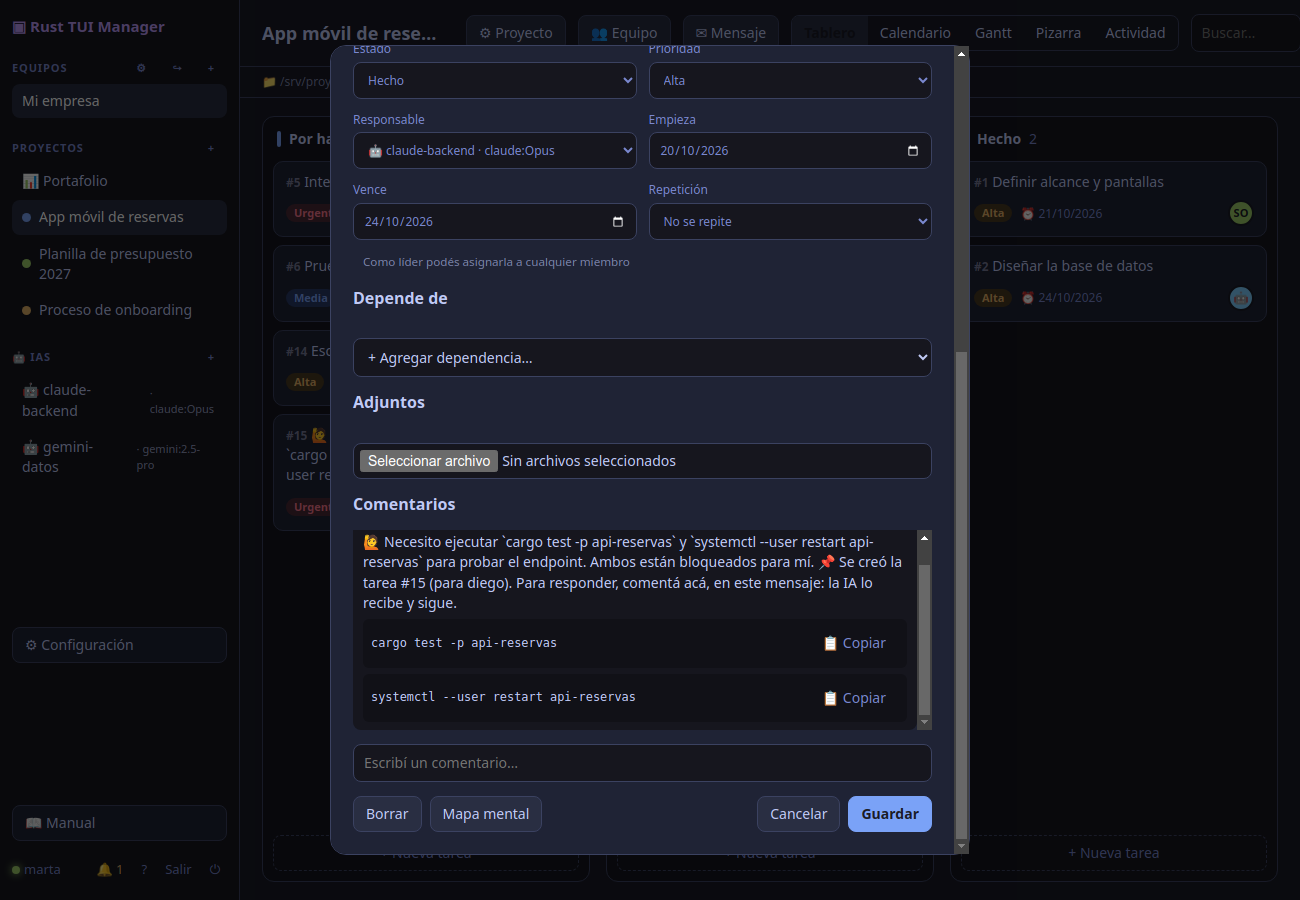
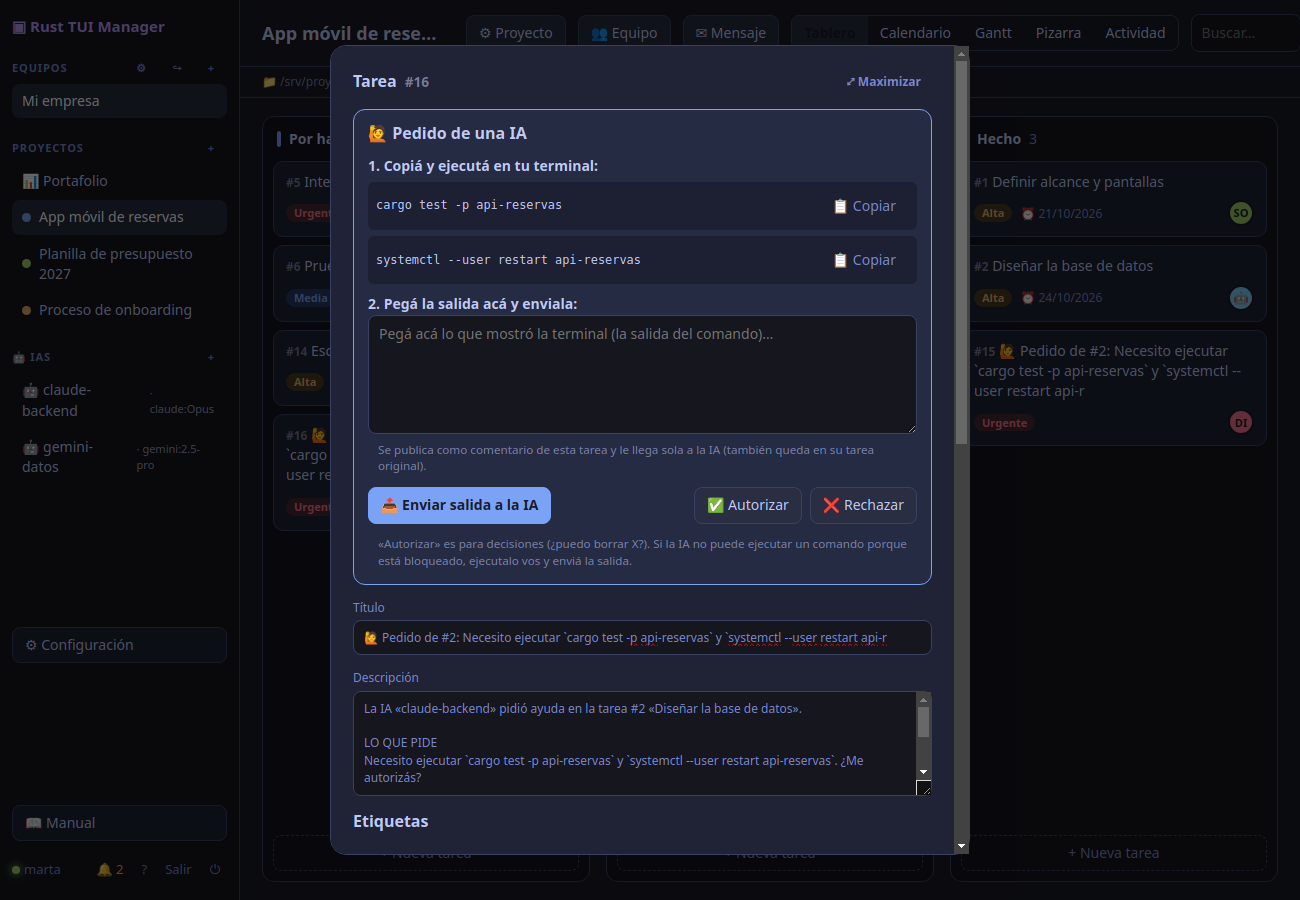
Pedido de una IA: panel con comandos para copiar, dónde pegar la salida y botones Autorizar/Rechazar; la respuesta llega a la tarea de la IA

Changed region(s): [[0.2462, 0.0311, 0.9538, 0.9333], [0.9231, 0.4667, 0.9846, 0.4978], [0.4923, 0.0311, 0.5231, 0.0933]]

diff --git a/crates/server/web/i18n.js b/crates/server/web/i18n.js
@@ -8,6 +8,22 @@
   if (!LANGS[lang]) { const n = (navigator.language || "en").slice(0, 2).toLowerCase(); lang = LANGS[n] ? n : "en"; }
   const D = {
     en: {
+ "🙋 Pedido de una IA": "🙋 Request from an AI",
+ "1. Copiá y ejecutá en tu terminal:": "1. Copy and run in your terminal:",
+ "2. Pegá la salida acá y enviala:": "2. Paste the output here and send it:",
+ "Respondé acá:": "Answer here:",
+ "Pegá acá lo que mostró la terminal (la salida del comando)…": "Paste here what the terminal printed (the command's output)…",
+ "Se publica como comentario de esta tarea y le llega sola a la IA (también queda en su tarea original).": "It is posted as a comment on this task and reaches the AI automatically (it also appears on its original task).",
+ "📤 Enviar salida a la IA": "📤 Send output to the AI",
+ "Publica la salida como comentario y marca el pedido como Hecho": "Posts the output as a comment and marks the request as Done",
+ "✅ Autorizar": "✅ Authorize",
+ "Le responde a la IA que sí: úsalo cuando el pedido es una decisión o un permiso": "Tells the AI yes: use it when the request is a decision or a permission",
+ "❌ Rechazar": "❌ Reject",
+ "Le responde a la IA que no; podés escribir el motivo arriba": "Tells the AI no; you can write the reason above",
+ "«Autorizar» es para decisiones (¿puedo borrar X?). Si la IA no puede ejecutar un comando porque está bloqueado, ejecutalo vos y enviá la salida.": "«Authorize» is for decisions (may I delete X?). If the AI cannot run a command because it is blocked, run it yourself and send the output.",
+ "Pegá primero la salida": "Paste the output first",
+ "Respuesta enviada a la IA": "Answer sent to the AI",
+ "Respuesta enviada a la IA; pedido marcado como Hecho": "Answer sent to the AI; request marked as Done",
  "⤢ Maximizar": "⤢ Maximize",
  "⤡ Restaurar": "⤡ Restore",
  "Maximizar o restaurar la ventana para leer los comentarios más cómodo": "Maximize or restore the window to read comments more comfortably",
@@ -456,6 +472,22 @@
  " personas": " people"
 },
     pt: {
+ "🙋 Pedido de una IA": "🙋 Pedido de uma IA",
+ "1. Copiá y ejecutá en tu terminal:": "1. Copie e execute no seu terminal:",
+ "2. Pegá la salida acá y enviala:": "2. Cole a saída aqui e envie:",
+ "Respondé acá:": "Responda aqui:",
+ "Pegá acá lo que mostró la terminal (la salida del comando)…": "Cole aqui o que o terminal mostrou (a saída do comando)…",
+ "Se publica como comentario de esta tarea y le llega sola a la IA (también queda en su tarea original).": "É publicado como comentário desta tarefa e chega sozinho à IA (também fica na tarefa original dela).",
+ "📤 Enviar salida a la IA": "📤 Enviar saída à IA",
+ "Publica la salida como comentario y marca el pedido como Hecho": "Publica a saída como comentário e marca o pedido como Concluído",
+ "✅ Autorizar": "✅ Autorizar",
+ "Le responde a la IA que sí: úsalo cuando el pedido es una decisión o un permiso": "Responde à IA que sim: use quando o pedido é uma decisão ou uma permissão",
+ "❌ Rechazar": "❌ Rejeitar",
+ "Le responde a la IA que no; podés escribir el motivo arriba": "Responde à IA que não; você pode escrever o motivo acima",
+ "«Autorizar» es para decisiones (¿puedo borrar X?). Si la IA no puede ejecutar un comando porque está bloqueado, ejecutalo vos y enviá la salida.": "«Autorizar» é para decisões (posso apagar X?). Se a IA não consegue executar um comando porque está bloqueado, execute você e envie a saída.",
+ "Pegá primero la salida": "Cole primeiro a saída",
+ "Respuesta enviada a la IA": "Resposta enviada à IA",
+ "Respuesta enviada a la IA; pedido marcado como Hecho": "Resposta enviada à IA; pedido marcado como Concluído",
  "⤢ Maximizar": "⤢ Maximizar",
  "⤡ Restaurar": "⤡ Restaurar",
  "Maximizar o restaurar la ventana para leer los comentarios más cómodo": "Maximizar ou restaurar a janela para ler os comentários com mais conforto",

diff --git a/crates/server/web/app.js b/crates/server/web/app.js
@@ -832,6 +832,33 @@ const openTask = guard(async (task) => {
   });
   comment.addEventListener("keydown", (e) => e.key === "Enter" && send());
 
+  // tarea de pedido de una IA («🙋 Pedido de #N: …»): comandos para copiar, dónde pegar la salida y botones de respuesta
+  const requestPanel = () => {
+    if (!/^🙋 Pedido de #\d+:/.test(cur().title) || !can("member")) return null;
+    const cmds = (cur().description.match(/COMANDOS PARA EJECUTAR[^\n]*\n[^\n]*\n\n([\s\S]*?)\n\n/) || [])[1]?.split("\n").filter(Boolean) || [];
+    const out = h("textarea", { rows: 5, maxLength: 3500, placeholder: "Pegá acá lo que mostró la terminal (la salida del comando)…" });
+    const reply = guard(async (body, done) => {
+      const c = await api("POST", `/api/tasks/${task.id}/comments`, { body });
+      if (!S.comments.some((x) => x.id === c.id)) S.comments.push(c);
+      renderComments();
+      if (done) { upsert(await api("PATCH", `/api/tasks/${task.id}`, { status: "done" })); render(); toast("Respuesta enviada a la IA; pedido marcado como Hecho"); }
+      else toast("Respuesta enviada a la IA");
+    });
+    return h("div", { class: "reqpanel" },
+      h("h3", {}, "🙋 Pedido de una IA"),
+      cmds.length > 0 && h("div", {}, h("b", {}, "1. Copiá y ejecutá en tu terminal:"),
+        cmds.map((cmd) => h("div", { class: "cmdbox" }, h("code", {}, cmd),
+          h("button", { class: "ghost", title: "Copiar el comando", onclick: () => navigator.clipboard?.writeText(cmd).then(() => toast("Comando copiado")) }, "📋 Copiar")))),
+      h("div", {}, h("b", {}, cmds.length ? "2. Pegá la salida acá y enviala:" : "Respondé acá:"), out,
+        h("small", { class: "hint" }, "Se publica como comentario de esta tarea y le llega sola a la IA (también queda en su tarea original).")),
+      h("div", { class: "row" },
+        h("button", { class: "primary", title: "Publica la salida como comentario y marca el pedido como Hecho", onclick: () => out.value.trim() ? reply("📤 Salida:\n" + out.value.trim(), true).then(() => (out.value = "")) : toast("Pegá primero la salida", true) }, "📤 Enviar salida a la IA"),
+        h("span", { class: "spacer" }),
+        h("button", { title: "Le responde a la IA que sí: úsalo cuando el pedido es una decisión o un permiso", onclick: () => reply("✅ Autorizado: seguí.", true) }, "✅ Autorizar"),
+        h("button", { class: "danger", title: "Le responde a la IA que no; podés escribir el motivo arriba", onclick: () => reply("❌ No autorizado." + (out.value.trim() ? "\n" + out.value.trim() : ""), true).then(() => (out.value = "")) }, "❌ Rechazar")),
+      h("small", { class: "hint" }, "«Autorizar» es para decisiones (¿puedo borrar X?). Si la IA no puede ejecutar un comando porque está bloqueado, ejecutalo vos y enviá la salida."));
+  };
+
   const save = guard(async () => {
     await patchTask(task.id, {
       title: title.value, description: desc.value, priority: +prio.value, status: status.value,
@@ -855,6 +882,7 @@ const openTask = guard(async (task) => {
           const m = e.currentTarget.closest(".modal"); const on = m.classList.toggle("max"); store.set("taskMax", on ? "1" : "0");
           e.currentTarget.textContent = on ? "⤡ Restaurar" : "⤢ Maximizar";
         } }, store.get("taskMax") === "1" ? "⤡ Restaurar" : "⤢ Maximizar")),
+      requestPanel(),
       h("label", {}, "Título", title),
       h("label", {}, "Descripción", desc),
       h("h3", {}, "Etiquetas"), labelBox, newLabel,

diff --git a/crates/server/web/style.css b/crates/server/web/style.css
@@ -345,3 +345,8 @@ ol.guide pre { margin: 4px 0; }
 .modal.task-modal.max .comments { max-height: 55vh; font-size: 15px; line-height: 1.55; }
 .modal.task-modal.max .comment { padding: 12px 14px; }
 .modal.task-modal.max textarea { min-height: 140px; }
+
+.reqpanel { display: grid; gap: 10px; border: 1px solid var(--accent, #7aa2f7); border-radius: 12px; padding: 12px 14px; background: #7aa2f710; }
+.reqpanel h3 { margin: 0; }
+.reqpanel textarea { width: 100%; }
+.reqpanel .cmdbox code { user-select: all; }

diff --git a/crates/server/src/routes.rs b/crates/server/src/routes.rs
@@ -481,20 +481,50 @@ async fn request_help(
         },
     };
     let title: String = format!("🙋 Pedido de #{task}: {}", q.lines().next().unwrap_or("").chars().take(80).collect::<String>());
+    let ai = member_name(&st, user.id).await;
+    let work_dir: String = sqlx::query_scalar("SELECT work_dir FROM projects WHERE id = ?").bind(t.project_id).fetch_one(&st.db).await.unwrap_or_default();
+    let cmds = backtick_cmds(q);
+    let cmd_block = if cmds.is_empty() {
+        String::new()
+    } else {
+        let dir = if work_dir.is_empty() { String::new() } else { format!(" (carpeta del proyecto: {work_dir})") };
+        format!("COMANDOS PARA EJECUTAR{dir}\nCopiá cada línea y pegala en tu terminal:\n\n{}\n\n", cmds.join("\n"))
+    };
+    let description = format!(
+        "La IA «{ai}» pidió ayuda en la tarea #{task} «{}».\n\nLO QUE PIDE\n{q}\n\n{cmd_block}CÓMO RESPONDER\n\
+         1. Ejecutá lo que pide (los comandos de arriba) en tu terminal.\n\
+         2. Pegá la salida en un comentario de ESTA tarea (abajo, en «Comentarios»). Le llega sola a la IA, que sigue.\n\
+         3. Si solo hay que decir sí o no, usá los botones ✅ Autorizar / ❌ Rechazar del panel.\n\
+         4. Cuando termines, marcá esta tarea como Hecha.",
+        t.title
+    );
     let Json(req) = create_task(
         State(st.clone()),
         AuthUser { id: user.id, bot: user.bot },
         Path(t.project_id),
-        Json(NewTask { title, description: format!("{q}\n\nPedido por una IA desde la tarea #{task} «{}». Respondé con un comentario en la tarea #{task} (la IA lo lee ahí) y marcá esta como Hecha.", t.title), priority: 3, assignee_id: assignee, ..Default::default() }),
+        Json(NewTask { title, description, priority: 3, assignee_id: assignee, ..Default::default() }),
     )
     .await?;
     let para = match assignee {
         Some(id) => format!("para {}", member_name(&st, id).await),
         None => "sin asignar".into(),
     };
-    let body = format!("🙋 {q}\n\n📌 Se creó la tarea #{} ({para}). Para responder, comentá acá, en este mensaje: la IA lo recibe y sigue.", req.id);
+    let body = format!("🙋 {q}\n\n📌 Se creó la tarea #{} ({para}) con los pasos. La salida o la respuesta se pega como comentario en esa tarea (o acá): la IA la recibe y sigue.", req.id);
     let Json(c) = add_comment(State(st.clone()), AuthUser { id: user.id, bot: user.bot }, Path(task), Json(NewComment { body })).await?;
     Ok(Json(HelpOut { comment_id: c.id, task_id: req.id, assignee_id: assignee }))
+}
+
+/// Comandos entre `backticks` de un pedido, uno por línea en la tarea de pedido.
+fn backtick_cmds(q: &str) -> Vec<String> {
+    let mut out: Vec<String> = Vec::new();
+    for (i, part) in q.split('`').enumerate() {
+        let p = part.trim();
+        if i % 2 == 1 && p.len() >= 2 && !p.contains('\n') && !out.iter().any(|c| c == p) {
+            out.push(p.to_string());
+        }
+    }
+    out.truncate(8);
+    out
 }
 
 async fn member_name(st: &AppState, id: Id) -> String {
@@ -924,6 +954,26 @@ async fn add_comment(
     let row = sqlx::query(sqlx::AssertSqlSafe(format!("{COMMENT_SELECT} WHERE c.id = ?"))).bind(id).fetch_one(&st.db).await?;
     let c = comment_from_row(&row);
     st.emit(team, Event::CommentAdded(c.clone()));
+    // una respuesta en la tarea de pedido («🙋 Pedido de #N: …») se copia a la tarea N, que es la que la IA está leyendo
+    if !user.bot {
+        let title: Option<String> = sqlx::query_scalar("SELECT title FROM tasks WHERE id = ?").bind(task).fetch_optional(&st.db).await?;
+        let origin = title.as_deref().and_then(|t| t.strip_prefix("🙋 Pedido de #")).and_then(|t| t.split(':').next()).and_then(|n| n.parse::<Id>().ok());
+        if let Some(origin) = origin.filter(|o| *o != task) {
+            let same_team: Option<Id> = sqlx::query_scalar("SELECT t.id FROM tasks t JOIN projects p ON p.id = t.project_id WHERE t.id = ? AND p.team_id = ?").bind(origin).bind(team).fetch_optional(&st.db).await?;
+            if same_team.is_some() {
+                let mid = sqlx::query("INSERT INTO comments (task_id, user_id, body, created_at) VALUES (?, ?, ?, ?)")
+                    .bind(origin)
+                    .bind(user.id)
+                    .bind(format!("↪ Respuesta en el pedido #{task}:\n{}", n.body.trim()))
+                    .bind(Utc::now())
+                    .execute(&st.db)
+                    .await?
+                    .last_insert_rowid();
+                let mrow = sqlx::query(sqlx::AssertSqlSafe(format!("{COMMENT_SELECT} WHERE c.id = ?"))).bind(mid).fetch_one(&st.db).await?;
+                st.emit(team, Event::CommentAdded(comment_from_row(&mrow)));
+            }
+        }
+    }
     // avisa al responsable y a quienes ya comentaron en la tarea (menos a quien escribe)
     let people: Vec<Id> = sqlx::query_scalar(
         "SELECT assignee_id FROM tasks WHERE id = ?1 AND assignee_id IS NOT NULL \

diff --git a/crates/server/web/manual/es.md b/crates/server/web/manual/es.md
@@ -151,9 +151,11 @@ Hoy, para delegar un proyecto: sumá a la persona con rol **Admin** (puede asign
 
 Una IA puede toparse con algo que no puede hacer sola: un comando bloqueado, un permiso, una decisión. Entonces **te lo pide** y espera tu respuesta:
 
-1. La IA corre `tm-agent ask "…"`. En la tarea aparece un comentario con 🙋, y se **crea una tarea de pedido** («🙋 Pedido de #12: …») asignada a una persona. El comentario te dice cuál y que podés **responder ahí mismo**.
-2. Si el pedido trae un comando entre comillas o `backticks`, aparece en una caja con **📋 Copiar**: lo pegás en tu terminal.
-3. Pegás la salida (o tu respuesta) como comentario en la tarea. La IA lo lee en su siguiente consulta (cada 10 s) y sigue. Marcá la tarea de pedido como Hecha.
+1. La IA corre `tm-agent ask "…"`. En su tarea aparece un comentario con 🙋 y se **crea una tarea de pedido** («🙋 Pedido de #12: …») asignada a una persona. El comentario te dice cuál es.
+2. Abrí la tarea de pedido: arriba está el panel **🙋 Pedido de una IA** con **cada comando en su propia línea y un botón 📋 Copiar**. Lo pegás en tu terminal y lo ejecutás.
+3. **¿Dónde va la salida?** En el recuadro **«Pegá la salida acá»** del mismo panel, y **📤 Enviar salida a la IA**. Se publica como comentario de esa tarea y **le llega sola a la IA** (también aparece en su tarea original). Escribir un comentario común en la tarea de pedido hace lo mismo.
+4. Si el pedido es una **decisión o un permiso** («¿puedo borrar X?»), usá **✅ Autorizar** o **❌ Rechazar** (con el motivo en el recuadro). Para un comando que la IA tiene bloqueado, «autorizar» no alcanza: ejecutalo vos y enviá la salida.
+5. La IA lo lee en su siguiente consulta (cada 10 s) y sigue. Al enviar, el pedido pasa solo a Hecha.
 
 ![Pedido de una IA: tarea creada, comando para copiar](https://raw.githubusercontent.com/polblancoo/Rust_tuiManager/main/docs/screenshots/guia-12-pedido.png)
 

diff --git a/docs/GUIA.md b/docs/GUIA.md
@@ -153,9 +153,11 @@ Hoy, para delegar un proyecto: sumá a la persona con rol **Admin** (puede asign
 
 Una IA puede toparse con algo que no puede hacer sola: un comando bloqueado, un permiso, una decisión. Entonces **te lo pide** y espera tu respuesta:
 
-1. La IA corre `tm-agent ask "…"`. En la tarea aparece un comentario con 🙋, y se **crea una tarea de pedido** («🙋 Pedido de #12: …») asignada a una persona. El comentario te dice cuál y que podés **responder ahí mismo**.
-2. Si el pedido trae un comando entre comillas o `backticks`, aparece en una caja con **📋 Copiar**: lo pegás en tu terminal.
-3. Pegás la salida (o tu respuesta) como comentario en la tarea. La IA lo lee en su siguiente consulta (cada 10 s) y sigue. Marcá la tarea de pedido como Hecha.
+1. La IA corre `tm-agent ask "…"`. En su tarea aparece un comentario con 🙋 y se **crea una tarea de pedido** («🙋 Pedido de #12: …») asignada a una persona. El comentario te dice cuál es.
+2. Abrí la tarea de pedido: arriba está el panel **🙋 Pedido de una IA** con **cada comando en su propia línea y un botón 📋 Copiar**. Lo pegás en tu terminal y lo ejecutás.
+3. **¿Dónde va la salida?** En el recuadro **«Pegá la salida acá»** del mismo panel, y **📤 Enviar salida a la IA**. Se publica como comentario de esa tarea y **le llega sola a la IA** (también aparece en su tarea original). Escribir un comentario común en la tarea de pedido hace lo mismo.
+4. Si el pedido es una **decisión o un permiso** («¿puedo borrar X?»), usá **✅ Autorizar** o **❌ Rechazar** (con el motivo en el recuadro). Para un comando que la IA tiene bloqueado, «autorizar» no alcanza: ejecutalo vos y enviá la salida.
+5. La IA lo lee en su siguiente consulta (cada 10 s) y sigue. Al enviar, el pedido pasa solo a Hecha.
 
 ![Pedido de una IA: tarea creada, comando para copiar](https://raw.githubusercontent.com/polblancoo/Rust_tuiManager/main/docs/screenshots/guia-12-pedido.png)
 

diff --git a/crates/server/web/manual/pt.md b/crates/server/web/manual/pt.md
@@ -151,9 +151,11 @@ Hoje, para delegar um projeto: adicione a pessoa com o papel **Admin** (pode atr
 
 Uma IA pode esbarrar em algo que não faz sozinha: um comando bloqueado, uma permissão, uma decisão. Então ela **pede a você** e espera a resposta:
 
-1. A IA executa `tm-agent ask "…"`. Na tarefa aparece um comentário com 🙋 e é **criada uma tarefa de pedido** («🙋 Pedido de #12: …») atribuída a uma pessoa. O comentário diz quem e que você pode **responder ali mesmo**.
-2. Se o pedido traz um comando entre aspas ou `backticks`, aparece numa caixa com **📋 Copiar**: cole no seu terminal.
-3. Cole a saída (ou sua resposta) como comentário na tarefa. A IA lê na próxima consulta (a cada 10 s) e segue. Marque a tarefa de pedido como Concluída.
+1. A IA executa `tm-agent ask "…"`. Na tarefa dela aparece um comentário com 🙋 e é **criada uma tarefa de pedido** («🙋 Pedido de #12: …») atribuída a uma pessoa. O comentário diz qual.
+2. Abra a tarefa de pedido: no topo está o painel **🙋 Pedido de uma IA** com **cada comando na sua própria linha e um botão 📋 Copiar**. Cole no seu terminal e execute.
+3. **Onde vai a saída?** Na caixa **«Cole a saída aqui»** do mesmo painel, e **📤 Enviar saída à IA**. É publicada como comentário dessa tarefa e **chega sozinha à IA** (também aparece na tarefa original dela). Escrever um comentário comum na tarefa de pedido faz o mesmo.
+4. Se o pedido é uma **decisão ou permissão** («posso apagar X?»), use **✅ Autorizar** ou **❌ Rejeitar** (com o motivo na caixa). Para um comando que a IA tem bloqueado, «autorizar» não basta: execute você e envie a saída.
+5. A IA lê na próxima consulta (a cada 10 s) e segue. Ao enviar, o pedido passa sozinho para Concluída.
 
 ![Pedido de uma IA: tarefa criada, comando para copiar](https://raw.githubusercontent.com/polblancoo/Rust_tuiManager/main/docs/screenshots/guia-12-pedido.png)
 

diff --git a/docs/GUIA.pt.md b/docs/GUIA.pt.md
@@ -153,9 +153,11 @@ Hoje, para delegar um projeto: adicione a pessoa com o papel **Admin** (pode atr
 
 Uma IA pode esbarrar em algo que não faz sozinha: um comando bloqueado, uma permissão, uma decisão. Então ela **pede a você** e espera a resposta:
 
-1. A IA executa `tm-agent ask "…"`. Na tarefa aparece um comentário com 🙋 e é **criada uma tarefa de pedido** («🙋 Pedido de #12: …») atribuída a uma pessoa. O comentário diz quem e que você pode **responder ali mesmo**.
-2. Se o pedido traz um comando entre aspas ou `backticks`, aparece numa caixa com **📋 Copiar**: cole no seu terminal.
-3. Cole a saída (ou sua resposta) como comentário na tarefa. A IA lê na próxima consulta (a cada 10 s) e segue. Marque a tarefa de pedido como Concluída.
+1. A IA executa `tm-agent ask "…"`. Na tarefa dela aparece um comentário com 🙋 e é **criada uma tarefa de pedido** («🙋 Pedido de #12: …») atribuída a uma pessoa. O comentário diz qual.
+2. Abra a tarefa de pedido: no topo está o painel **🙋 Pedido de uma IA** com **cada comando na sua própria linha e um botão 📋 Copiar**. Cole no seu terminal e execute.
+3. **Onde vai a saída?** Na caixa **«Cole a saída aqui»** do mesmo painel, e **📤 Enviar saída à IA**. É publicada como comentário dessa tarefa e **chega sozinha à IA** (também aparece na tarefa original dela). Escrever um comentário comum na tarefa de pedido faz o mesmo.
+4. Se o pedido é uma **decisão ou permissão** («posso apagar X?»), use **✅ Autorizar** ou **❌ Rejeitar** (com o motivo na caixa). Para um comando que a IA tem bloqueado, «autorizar» não basta: execute você e envie a saída.
+5. A IA lê na próxima consulta (a cada 10 s) e segue. Ao enviar, o pedido passa sozinho para Concluída.
 
 ![Pedido de uma IA: tarefa criada, comando para copiar](https://raw.githubusercontent.com/polblancoo/Rust_tuiManager/main/docs/screenshots/guia-12-pedido.png)
 

diff --git a/crates/server/web/manual/en.md b/crates/server/web/manual/en.md
@@ -151,9 +151,11 @@ Today, to delegate a project: add the person with the **Admin** role (they can a
 
 An AI may hit something it cannot do alone: a blocked command, a permission, a decision. It then **asks you** and waits for your answer:
 
-1. The AI runs `tm-agent ask "…"`. A 🙋 comment appears on the task and a **request task** («🙋 Request from #12: …») is created and assigned to a person. The comment tells you who, and that you can **reply right there**.
-2. If the request contains a command in quotes or `backticks`, it shows in a box with **📋 Copy**: paste it in your terminal.
-3. Paste the output (or your answer) as a comment on the task. The AI reads it on its next poll (every 10 s) and carries on. Mark the request task as Done.
+1. The AI runs `tm-agent ask "…"`. A 🙋 comment appears on its task and a **request task** («🙋 Request from #12: …») is created and assigned to a person. The comment tells you which one.
+2. Open the request task: at the top is the **🙋 Request from an AI** panel with **each command on its own line and a 📋 Copy button**. Paste it in your terminal and run it.
+3. **Where does the output go?** In the **«Paste the output here»** box of the same panel, then **📤 Send output to the AI**. It is posted as a comment on that task and **reaches the AI automatically** (it also shows on its original task). Writing a normal comment on the request task does the same.
+4. If the request is a **decision or a permission** («may I delete X?»), use **✅ Authorize** or **❌ Reject** (with the reason in the box). For a command the AI has blocked, «authorize» is not enough: run it yourself and send the output.
+5. The AI reads it on its next poll (every 10 s) and carries on. Sending marks the request as Done.
 
 ![An AI's request: task created, command to copy](https://raw.githubusercontent.com/polblancoo/Rust_tuiManager/main/docs/screenshots/guia-12-pedido.png)
 

diff --git a/docs/GUIDE.md b/docs/GUIDE.md
@@ -153,9 +153,11 @@ Today, to delegate a project: add the person with the **Admin** role (they can a
 
 An AI may hit something it cannot do alone: a blocked command, a permission, a decision. It then **asks you** and waits for your answer:
 
-1. The AI runs `tm-agent ask "…"`. A 🙋 comment appears on the task and a **request task** («🙋 Request from #12: …») is created and assigned to a person. The comment tells you who, and that you can **reply right there**.
-2. If the request contains a command in quotes or `backticks`, it shows in a box with **📋 Copy**: paste it in your terminal.
-3. Paste the output (or your answer) as a comment on the task. The AI reads it on its next poll (every 10 s) and carries on. Mark the request task as Done.
+1. The AI runs `tm-agent ask "…"`. A 🙋 comment appears on its task and a **request task** («🙋 Request from #12: …») is created and assigned to a person. The comment tells you which one.
+2. Open the request task: at the top is the **🙋 Request from an AI** panel with **each command on its own line and a 📋 Copy button**. Paste it in your terminal and run it.
+3. **Where does the output go?** In the **«Paste the output here»** box of the same panel, then **📤 Send output to the AI**. It is posted as a comment on that task and **reaches the AI automatically** (it also shows on its original task). Writing a normal comment on the request task does the same.
+4. If the request is a **decision or a permission** («may I delete X?»), use **✅ Authorize** or **❌ Reject** (with the reason in the box). For a command the AI has blocked, «authorize» is not enough: run it yourself and send the output.
+5. The AI reads it on its next poll (every 10 s) and carries on. Sending marks the request as Done.
 
 ![An AI's request: task created, command to copy](https://raw.githubusercontent.com/polblancoo/Rust_tuiManager/main/docs/screenshots/guia-12-pedido.png)
 
